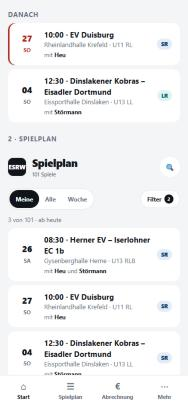
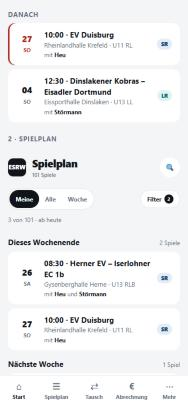
Entwurf: Handlungszeile, Zeitraum-Gruppen, fuenf Reiterplaetze
* Die Leiste hat wieder fuenf Plaetze - sie bleibt einstellbar wie heute,
  drei davon frei belegbar.
* Oben steht, was zu tun ist: '2 Spiele abrechnen - 80,00 € und 85,00 €
  warten auf dich'. Arbeit gehoert nicht in einen Reiter versteckt.
* Der Spielplan gruppiert nach Zeitraum statt nach nacktem Datum:
  'Dieses Wochenende · 2 Spiele', 'Naechste Woche · 1 Spiel'. Der
  Abschnittskopf gibt die Antwort, bevor man die Liste liest.
* Im Plan: der Einfachmodus entfaellt im neuen Design. Er war
  voreingestellt an und wirkte an vierzehn Stellen - die Oberflaeche ist
  jetzt immer so aufgeraeumt. Im alten Design bleibt er, solange es den
  Umschalter gibt.

diff --git a/referenz/entwurf/index.html b/referenz/entwurf/index.html
@@ -42,6 +42,11 @@
     padding:var(--a-s) var(--a-m); border-radius:var(--radius-s); margin:var(--a-xl) 0 var(--a-s); }
   h2.trenner { font-size:var(--s-m); text-transform:uppercase; letter-spacing:.08em;
     color:var(--leise); margin:var(--a-xl) 0 var(--a-s); font-weight:700; }
+  /* Ein Abschnittskopf, der schon die Antwort gibt: wie viele, wie viel. */
+  .abschnitt { display:flex; justify-content:space-between; align-items:baseline;
+    margin:var(--a-l) 0 var(--a-s); }
+  .abschnitt b { font-size:var(--s-xl); font-weight:700; }
+  .abschnitt span { font-size:var(--s-s); color:var(--leise); }
 
   /* ---------- Kopf: einer, nicht zwei ---------- */
   .kopf { display:flex; align-items:center; gap:var(--a-m); padding:var(--a-l) 0 var(--a-m); }
@@ -146,6 +151,15 @@
   .pruef { background:var(--warn-bg); color:var(--warn); border:0; font:inherit; font-weight:700;
     font-size:var(--s-xs); border-radius:var(--radius-pille); min-height:32px; padding:0 var(--a-m); cursor:pointer; }
 
+  /* Was jetzt zu tun ist, steht oben - nicht versteckt in einem Reiter. */
+  .tun { display:flex; align-items:center; gap:var(--a-m); background:var(--warn-bg);
+    border-radius:var(--radius); padding:var(--a-m) var(--a-l); margin-bottom:var(--a-m);
+    text-decoration:none; color:var(--warn); min-height:56px; }
+  .tun b { display:block; font-size:var(--s-xl); }
+  .tun small { font-size:var(--s-s); opacity:.85; }
+  .tun span:nth-child(2) { flex:1; min-width:0; }
+  .tun .pfeil { font-size:var(--s-2xl); opacity:.6; }
+
   /* Ein leerer Bildschirm soll sagen, was los ist und was man tun kann -
      nicht nur, dass nichts da ist. */
   .leer { background:var(--karte); border-radius:var(--radius); padding:var(--a-xl) var(--a-l);
@@ -188,6 +202,12 @@
     </div>
   </div>
 
+  <a class="tun" href="#">
+    <span class="punkt offen"></span>
+    <span><b>2 Spiele abrechnen</b><small>80,00 € und 85,00 € warten auf dich</small></span>
+    <span class="pfeil">›</span>
+  </a>
+
   <h2 class="trenner">Danach</h2>
   <a class="spiel heute" href="#">
     <div class="tag"><b>27</b><span>So</span></div>
@@ -214,6 +234,7 @@
   </div>
   <div class="zaehler">3 von 101 · ab heute</div>
 
+  <div class="abschnitt"><b>Dieses Wochenende</b><span>2 Spiele</span></div>
   <a class="spiel" href="#">
     <div class="tag"><b>26</b><span>Sa</span></div>
     <div class="mitte"><b>08:30 · Herner EV – Iserlohner EC 1b</b><span>Gysenberghalle Herne · U13 RLB</span><div class="gespann">mit <b>Heu</b> und <b>Störmann</b></div></div>
@@ -224,6 +245,7 @@
     <div class="mitte"><b>10:00 · EV Duisburg</b><span>Rheinlandhalle Krefeld · U11 RL</span><div class="gespann">mit <b>Heu</b></div></div>
     <div class="rolle">SR</div>
   </a>
+  <div class="abschnitt"><b>Nächste Woche</b><span>1 Spiel</span></div>
   <a class="spiel" href="#">
     <div class="tag"><b>04</b><span>So</span></div>
     <div class="mitte"><b>12:30 · Dinslakener Kobras – Eisadler Dortmund</b><span>Eissporthalle Dinslaken · U13 LL</span><div class="gespann">mit <b>Störmann</b></div></div>
@@ -270,6 +292,7 @@
   <div class="leiste">
     <a href="#" class="an"><i>⌂</i>Start</a>
     <a href="#"><i>☰</i>Spielplan</a>
+    <a href="#"><i>⇄</i>Tausch</a>
     <a href="#"><i>€</i>Abrechnung</a>
     <a href="#"><i>⋯</i>Mehr</a>
   </div>
